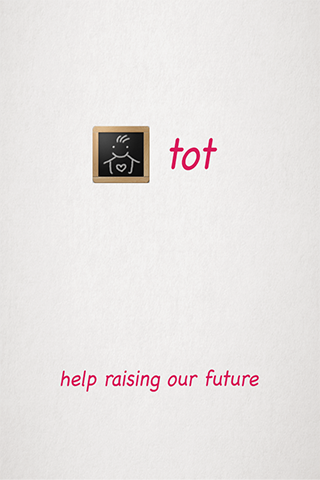
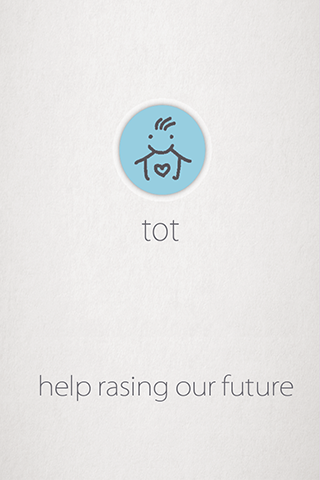
Modified startup images and tutorial. Commented out some output messages.

Changed region(s): [[0.2812, 0.2188, 0.6875, 0.4062], [0.125, 0.75, 0.9375, 0.8438], [0.4375, 0.4375, 0.5625, 0.5]]

diff --git a/totdev/totLoginController.m b/totdev/totLoginController.m
@@ -120,8 +120,10 @@
         
         [user release];
         
-        if( global.baby != nil )
+        /*
+         if( global.baby != nil )
             [global.baby printBabyInfo];
+        */
         
         // if yes and pwd matches, go to home view
         [self backgroundTap:nil]; // dismiss keyboard

diff --git a/totdev/totNewBabyController.m b/totdev/totNewBabyController.m
@@ -116,9 +116,9 @@
         return;
     }
     
-    NSLog(@"%@", name);
-    NSLog(@"%d", sex);
-    NSLog(@"%@", bday);
+    //NSLog(@"%@", name);
+    //NSLog(@"%d", sex);
+    //NSLog(@"%@", bday);
     
 
     // save baby info to db
